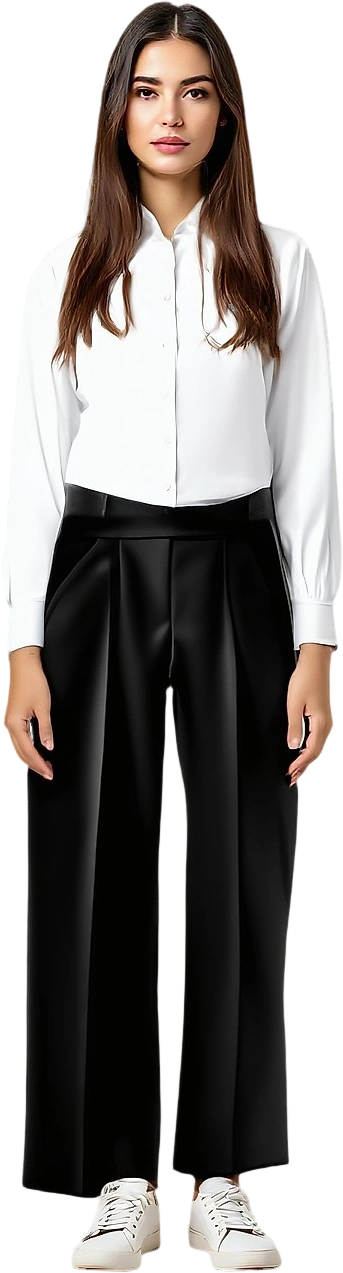
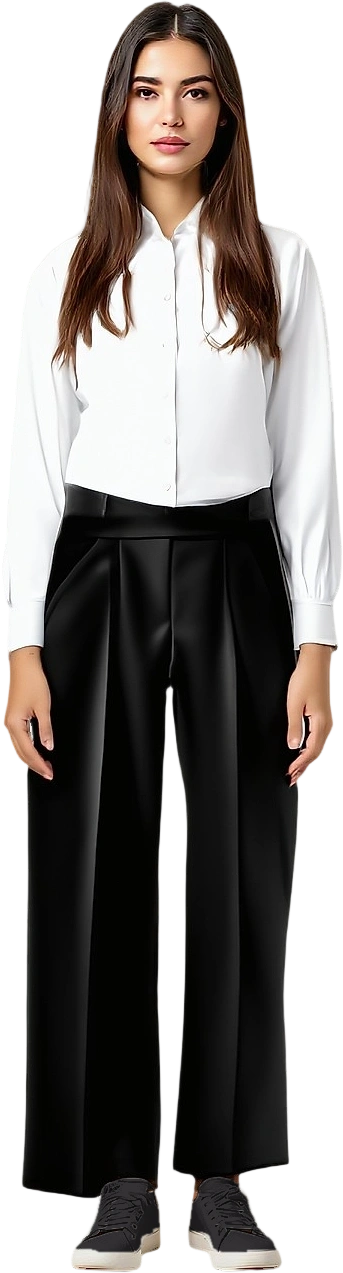
Prototype round 3: navy dress back, shoes matched to outfits, shoes shown as pieces
- scripts/fal/shoes.mjs recolours the avatars' sneakers (free, deterministic) to suit each outfit,
  keeping the sole, light and shade. The pair is also cut out as a piece shown with the set.
- Navy dress look restored; a women's puffer failed twice and is not used.
- Look card, saved sets and the wardrobe shelf now show the shoes.

Changed region(s): [[0.5539, 0.9191, 0.7872, 1.0], [0.2332, 0.9191, 0.4665, 1.0]]

diff --git a/full/src/lib/wardrobe/curated.ts b/full/src/lib/wardrobe/curated.ts
@@ -19,33 +19,43 @@ export type CuratedLook = {
   low: number; // planned temperature range, °C
   high: number;
   refs: string[]; // every piece is dressed; inner layers first
+  shoes: ShoeColour; // the colour of the sneakers on the model: matched to the outfit (scripts/fal/shoes.mjs)
+  shoe: { name: Text3; image: string }; // the pair as worn, shown with the other pieces
   image: string; // the finished look, shipped with the site (public/assets/looks), so it opens at once
   note: Text3;
   why: { weather: Text3; harmony: Text3; layers: Text3 };
 };
 
-type Plan = Omit<CuratedLook, "id" | "image" | "note" | "why">;
+export type ShoeColour = "white" | "black" | "brown" | "tan";
+type Plan = Omit<CuratedLook, "id" | "image" | "note" | "why" | "shoe">;
+const SHOE_NAMES: Record<ShoeColour, Text3> = {
+  white: { en: "White sneakers", az: "Ağ idman ayaqqabısı", tr: "Beyaz spor ayakkabı" },
+  black: { en: "Black sneakers", az: "Qara idman ayaqqabısı", tr: "Siyah spor ayakkabı" },
+  brown: { en: "Brown sneakers", az: "Qəhvəyi idman ayaqqabısı", tr: "Kahverengi spor ayakkabı" },
+  tan: { en: "Tan sneakers", az: "Bej idman ayaqqabısı", tr: "Bej spor ayakkabı" },
+};
 // Looks span the year, from hot to cold, so the look of the day follows the real forecast.
 // Left out after checks (11 Nov 2026): a blazer over a shirt (broke the shirt), navy trousers (hem folded at the
-// shoes), a navy dress (long hair over a dark top left light streaks), jeans with an open shirt; round 2: shorts (legs and shoes redrawn), grey trousers (came out shiny like leather joggers), a summer dress on f1 (hem hung loose twice), a long and a short coat on f1 (both cut to a cropped jacket).
+// shoes), jeans with an open shirt; round 2: shorts (legs and shoes redrawn), grey trousers (came out shiny like leather joggers), a summer dress on f1 (hem hung loose twice), a long and a short coat and a puffer on f1 (cut to a cropped jacket; the puffer lost its collar).
 const PLANS: Plan[] = [
-  { avatar: "m1", n: 7, low: 21, high: 32, refs: ["demo:man-chinos", "demo:man-tee"] },
-  { avatar: "m1", n: 5, low: 13, high: 18, refs: ["demo:man-chinos", "demo:man-shirt"] },
-  { avatar: "m1", n: 3, low: 10, high: 15, refs: ["demo:man-chinos", "demo:man-sweater"] },
-  { avatar: "m1", n: 1, low: 7, high: 12, refs: ["demo:man-jeans", "demo:man-sweater"] },
-  { avatar: "m1", n: 10, low: -5, high: 6, refs: ["demo:man-jeans", "demo:man-puffer"] },
-  { avatar: "f1", n: 7, low: 21, high: 32, refs: ["demo:woman-jeans", "demo:woman-tee"] },
-  { avatar: "f1", n: 5, low: 13, high: 18, refs: ["demo:woman-skirt", "demo:woman-blouse"] },
-  { avatar: "f1", n: 4, low: 9, high: 19, refs: ["demo:woman-jeans", "demo:woman-shirt"] },
-  { avatar: "f1", n: 3, low: 10, high: 15, refs: ["demo:woman-jeans", "demo:woman-blouse"] },
-  { avatar: "f1", n: 2, low: 9, high: 13, refs: ["demo:woman-trousers", "demo:woman-shirt"] },
-  { avatar: "f1", n: 8, low: 12, high: 17, refs: ["demo:woman-knitdress"] },
+  { avatar: "m1", n: 7, low: 21, high: 32, shoes: "white", refs: ["demo:man-chinos", "demo:man-tee"] },
+  { avatar: "m1", n: 5, low: 13, high: 18, shoes: "brown", refs: ["demo:man-chinos", "demo:man-shirt"] },
+  { avatar: "m1", n: 3, low: 10, high: 15, shoes: "brown", refs: ["demo:man-chinos", "demo:man-sweater"] },
+  { avatar: "m1", n: 1, low: 7, high: 12, shoes: "black", refs: ["demo:man-jeans", "demo:man-sweater"] },
+  { avatar: "m1", n: 10, low: -5, high: 6, shoes: "black", refs: ["demo:man-jeans", "demo:man-puffer"] },
+  { avatar: "f1", n: 1, low: 6, high: 12, shoes: "white", refs: ["demo:woman-dress"] },
+  { avatar: "f1", n: 7, low: 21, high: 32, shoes: "white", refs: ["demo:woman-jeans", "demo:woman-tee"] },
+  { avatar: "f1", n: 5, low: 13, high: 18, shoes: "brown", refs: ["demo:woman-skirt", "demo:woman-blouse"] },
+  { avatar: "f1", n: 4, low: 9, high: 19, shoes: "white", refs: ["demo:woman-jeans", "demo:woman-shirt"] },
+  { avatar: "f1", n: 3, low: 10, high: 15, shoes: "tan", refs: ["demo:woman-jeans", "demo:woman-blouse"] },
+  { avatar: "f1", n: 2, low: 9, high: 13, shoes: "black", refs: ["demo:woman-trousers", "demo:woman-shirt"] },
+  { avatar: "f1", n: 8, low: 12, high: 17, shoes: "tan", refs: ["demo:woman-knitdress"] },
 ];
 
 const texts = TEXTS as Record<string, { note: Text3; why: CuratedLook["why"] }>;
 
 // Only looks that were dressed, checked and approved are listed in curated-texts.json.
-export const CURATED: CuratedLook[] = PLANS.map((p) => ({ ...p, id: `${p.avatar}-${p.n}`, image: `/assets/looks/${p.avatar}-${p.n}.webp`, ...(texts[`${p.avatar}-${p.n}`] ?? { note: null!, why: null! }) }));
+export const CURATED: CuratedLook[] = PLANS.map((p) => ({ ...p, id: `${p.avatar}-${p.n}`, image: `/assets/looks/${p.avatar}-${p.n}.webp`, shoe: { name: SHOE_NAMES[p.shoes], image: `/assets/looks/shoes/${p.avatar}-${p.n}.webp` }, ...(texts[`${p.avatar}-${p.n}`] ?? { note: null!, why: null! }) }));
 export const APPROVED = () => CURATED.filter((c) => c.note);
 
 // The looks for this avatar, the best match for today's real weather first (the coldest and the warmest part
@@ -61,4 +71,9 @@ export function looksFor(avatar: string, weather?: { low: number; high: number }
 export function curatedImage(avatar: string | null | undefined, refs: string[]) {
   const look = APPROVED().find((c) => c.avatar === avatar && c.refs.length === refs.length && c.refs.every((r) => refs.includes(r)));
   return look?.image ?? null;
+}
+
+// The approved look for exactly these pieces on this avatar (to show its shoes with the set).
+export function curatedLook(avatar: string | null | undefined, refs: string[]) {
+  return APPROVED().find((c) => c.avatar === avatar && c.refs.length === refs.length && c.refs.every((r) => refs.includes(r))) ?? null;
 }

diff --git a/full/src/components/wardrobe/Closet.tsx b/full/src/components/wardrobe/Closet.tsx
@@ -5,7 +5,7 @@ import { useRef, useState, useSyncExternalStore } from "react";
 import type { Dictionary } from "@/i18n/dictionaries";
 import type { Locale } from "@/i18n/config";
 import { type AvatarCard, PIECE_NAMES, canTryOn, CATEGORIES, DEMO_ITEMS, FITS, type Gender, MATERIALS, SIZES, type Category, type WardrobeItem } from "@/lib/wardrobe/catalog";
-import { PROTOTYPE } from "@/lib/wardrobe/curated";
+import { curatedLook, PROTOTYPE } from "@/lib/wardrobe/curated";
 import { callApi, type SavedSet, type Text } from "./WardrobeStudio";
 
 type Filter = "all" | Category;
@@ -66,6 +66,8 @@ function ProtoCloset({
   const avatarIds = avatars.filter((a) => a.gender === gender).map((a) => a.id);
   const used = new Set(sets.filter((x) => x.avatar && avatarIds.includes(x.avatar)).flatMap((x) => x.refs));
   const pieces = all.filter((i) => used.has(i.ref));
+  // The shoes of the saved sets hang on the glass shelf, one pair for each colour.
+  const shoes = [...new Map(sets.flatMap((x) => { const l = curatedLook(x.avatar, x.refs); return l ? [[l.shoe.image, l.shoe] as const] : []; })).values()];
   return (
     <div className="wc-closet">
       <div className="wc-closet-inner">
@@ -80,12 +82,14 @@ function ProtoCloset({
               const items = set.refs.flatMap((r) => all.filter((i) => i.ref === r));
               const who = avatars.find((a) => a.id === set.avatar);
               const label = set.name || items.map(nameOf).join(" + ");
+              const shoe = curatedLook(set.avatar, set.refs)?.shoe;
               return (
                 <div key={set.id} className="wc-set-card">
                   <button type="button" className="wc-set-main" onClick={() => onWearSet(set)} aria-label={`${p.wear}: ${label}`}>
                     {who && <img className="wc-set-who" src={who.image} alt="" />}
                     <span className="wc-set-thumbs">
                       {items.map((i) => <img key={i.ref} src={i.image} alt="" />)}
+                      {shoe && <img src={shoe.image} alt="" className="wc-set-shoe" />}
                     </span>
                     <span className="wc-set-label" title={label}>{label}</span>
                     <span className="wc-set-wear">{p.wear}</span>
@@ -95,8 +99,8 @@ function ProtoCloset({
               );
             })}
           </div>
-          {pieces.length > 0 && <h2 className="wc-shelf-title">{p.pieces}</h2>}
-          {pieces.length > 0 && <div className="wc-rail" />}
+          {(pieces.length > 0 || shoes.length > 0) && <h2 className="wc-shelf-title">{p.pieces}</h2>}
+          {(pieces.length > 0 || shoes.length > 0) && <div className="wc-rail" />}
           <div className="wc-grid">
             {pieces.map((item) => (
               <div key={item.ref} className="wc-item-wrap">
@@ -104,6 +108,16 @@ function ProtoCloset({
                   <Hanger />
                   <span className="wc-item-frame relative block">
                     <img src={item.image} alt={nameOf(item)} title={nameOf(item)} loading="lazy" draggable={false} />
+                  </span>
+                </div>
+              </div>
+            ))}
+            {shoes.map((shoe) => (
+              <div key={shoe.image} className="wc-item-wrap">
+                <div className="wc-item w-full">
+                  <span className="wc-no-hanger" />
+                  <span className="wc-item-frame on-shelf relative block">
+                    <img src={shoe.image} alt={shoe.name[locale]} title={shoe.name[locale]} loading="lazy" draggable={false} />
                   </span>
                 </div>
               </div>

diff --git a/full/src/lib/wardrobe/catalog.ts b/full/src/lib/wardrobe/catalog.ts
@@ -180,10 +180,11 @@ export const DEMO_ITEMS: WardrobeItem[] = [
   demo("woman-coat", "jackets-coats"),
   demo("woman-knitdress", "dresses"),
   demo("woman-jacket", "jackets-coats"),
+  demo("woman-puffer", "jackets-coats"),
 ];
 // Outerwear that is worn fully closed: it is dressed like a top (it replaces what is above the waist), so no
 // inner layer has to show through an opening.
-export const CLOSED_OUTERWEAR = new Set(["demo:man-puffer", "demo:woman-coat", "demo:woman-jacket"]);
+export const CLOSED_OUTERWEAR = new Set(["demo:man-puffer", "demo:woman-coat", "demo:woman-jacket", "demo:woman-puffer"]);
 
 // What the try-on model can dress today, and how it names each kind.
 export const FASHN_CATEGORY: Partial<Record<Category, "tops" | "bottoms" | "one-pieces">> = {
@@ -358,6 +359,7 @@ export const PIECE_NAMES: Record<string, Text3> = {
   "demo:woman-coat": { en: "Camel wool coat", az: "Dəvəyunu rəngli yun palto", tr: "Camel yün kaban" },
   "demo:woman-knitdress": { en: "Cream knit dress", az: "Krem trikotaj don", tr: "Krem triko elbise" },
   "demo:woman-jacket": { en: "Camel short coat", az: "Dəvəyunu rəngli qısa palto", tr: "Camel kısa kaban" },
+  "demo:woman-puffer": { en: "Cream puffer jacket", az: "Krem pufer gödəkçə", tr: "Krem şişme mont" },
 };
 // What the sample pieces are, for the stylist.
 export const SAMPLE_NOTES: Record<string, string> = {
@@ -386,4 +388,5 @@ export const SAMPLE_NOTES: Record<string, string> = {
   "demo:woman-coat": "camel wool coat, buttoned closed, knee length, women",
   "demo:woman-knitdress": "oatmeal cream knit midi dress, long sleeves, women",
   "demo:woman-jacket": "camel wool short coat, hip length, buttoned closed, women",
+  "demo:woman-puffer": "ivory cream quilted puffer jacket, zipped closed, women",
 };

diff --git a/full/src/components/wardrobe/DayPanel.tsx b/full/src/components/wardrobe/DayPanel.tsx
@@ -50,6 +50,10 @@ function CuratedLooks({
             <figcaption>{PIECE_NAMES[piece.ref]?.[locale] ?? t.cat[piece.category]}</figcaption>
           </figure>
         ))}
+        <figure className="wc-set-piece wc-set-shoes">
+          <img src={look.shoe.image} alt="" />
+          <figcaption>{look.shoe.name[locale]}</figcaption>
+        </figure>
       </div>
       <p className="text-[0.66rem] tracking-wide text-text-2">{p.planned.replace("{low}", String(look.low)).replace("{high}", String(look.high))}</p>
       <p className="font-serif text-[1.02rem] leading-snug">{look.note[locale]}</p>

diff --git a/full/src/components/wardrobe/wardrobe.css b/full/src/components/wardrobe/wardrobe.css
@@ -248,3 +248,6 @@ body:has(.wc-studio) { display: flow-root; }
 .wc-closet div.wc-item { cursor: default; }
 :root[data-theme="dark"] .wc-set { background: rgba(255, 255, 255, 0.06); }
 :root[data-theme="dark"] .wc-set-piece img { filter: drop-shadow(0 4px 8px rgba(0, 0, 0, 0.5)) brightness(1.08); }
+
+.wc-set-shoes img { height: 46px; margin-top: 46px; }
+.wc-set-thumbs .wc-set-shoe { width: 30px; height: 18px; align-self: flex-end; }

diff --git a/PROGRESS.md b/PROGRESS.md
@@ -237,3 +237,6 @@ Təhvil: `HANDOFF-PHASE5.md`, söhbət mətni: `PHASE5-PROMPT.md`.
 - **Raund 2 (11 noyabr, $2.05 xərc, cost_log 20.505):** saç kənarındakı ağ ləkələr: bütün kombinlər "Portrait" fon silmə + `finish.mjs` (kənar təmizləmə, kəskinlik, +6% rəng) ilə yenidən ixrac olundu. Çıxarılanlar: göy kişi şalvarı (balaq qatlanırdı), göy don (saç ucunda ağ zolaqlar), boz şalvar (dəri kimi parlaq), şort, yay donu, uzun və qısa qadın paltosu (model gödəkçəyə çevirdi). Əlavə olunanlar: m1-7 çinos + futbolka (isti), m1-10 cins + pufer (soyuq), f1-7 cins + futbolka (isti), f1-8 krem trikotaj don (mülayim). Cəmi 11 kombin (kişi 5, qadın 6), hamısı tünd və açıq fonda gözlə yoxlanıb, mətnlər Gemini ilə 3 dəfə yoxlanıb.
 - Günün kombini indi **real havaya görə** seçilir (bugünkü min/max temperatura ən yaxın kombin birinci). Ana səhifə demosu 3 səviyyədir (sərin/mülayim/isti), modellər nəfəs alır, "Tezliklə" işıqları parıldayır, 8-ci kart "Gedəcəyin yerə uyğun kombin".
 - Ayaqqabı geyindirmə edilmədi: FASHN ayaqqabı geyindirmir, şəkil üstünə yapışdırmaq isə görüntü xətası riski yaradır.
+- **Raund 3 (11 noyabr, cəmi Fal xərci $2.28 raund 2+3):** göy don (f1-1) istifadəçinin istəyi ilə geri qaytarıldı (saç ucunda yüngül açıq zolaqlar böyüdəndə görünür). Qadın pufer gödəkçə 2 cəhdlə alınmadı (yaxa itdi), buna görə qadında soyuq hava üçün ayrıca kombin yoxdur. Qısa palto və uzun palto da alınmamışdı.
+- **Ayaqqabılar:** `scripts/fal/shoes.mjs`: bütün avatarlar eyni ağ idman ayaqqabısında dayanır, eyni pozada. Ayaqqabı tapılır (solğun, rəngsiz pikseller, ayaq sahəsində), ağ altlıq saxlanılır, üst hissə öz işıq-kölgəsi ilə yenidən rənglənir (qara, qəhvəyi, bej, ağ). Hər kombinə uyğun rəng `curated.ts`-də (`shoes`). Cüt ayrıca "geyim" şəkli kimi kəsilir (`public/assets/looks/shoes/`) və kombin kartında, dəstdə və şkaf rəfində görünür. Real çəkmə və ya loafer üçün try-on modeli lazımdır (sonraya).
+- **Netlify:** WearCast hesabı qoşuldu (support.wearcast@gmail.com). `wearcast` adı tutulub, `wearcast-6a0p` yaradıldı. Layihə SSO ilə qorunur (hamıya açıq deyil), yayımdan əvvəl dəyişdirilməlidir.
